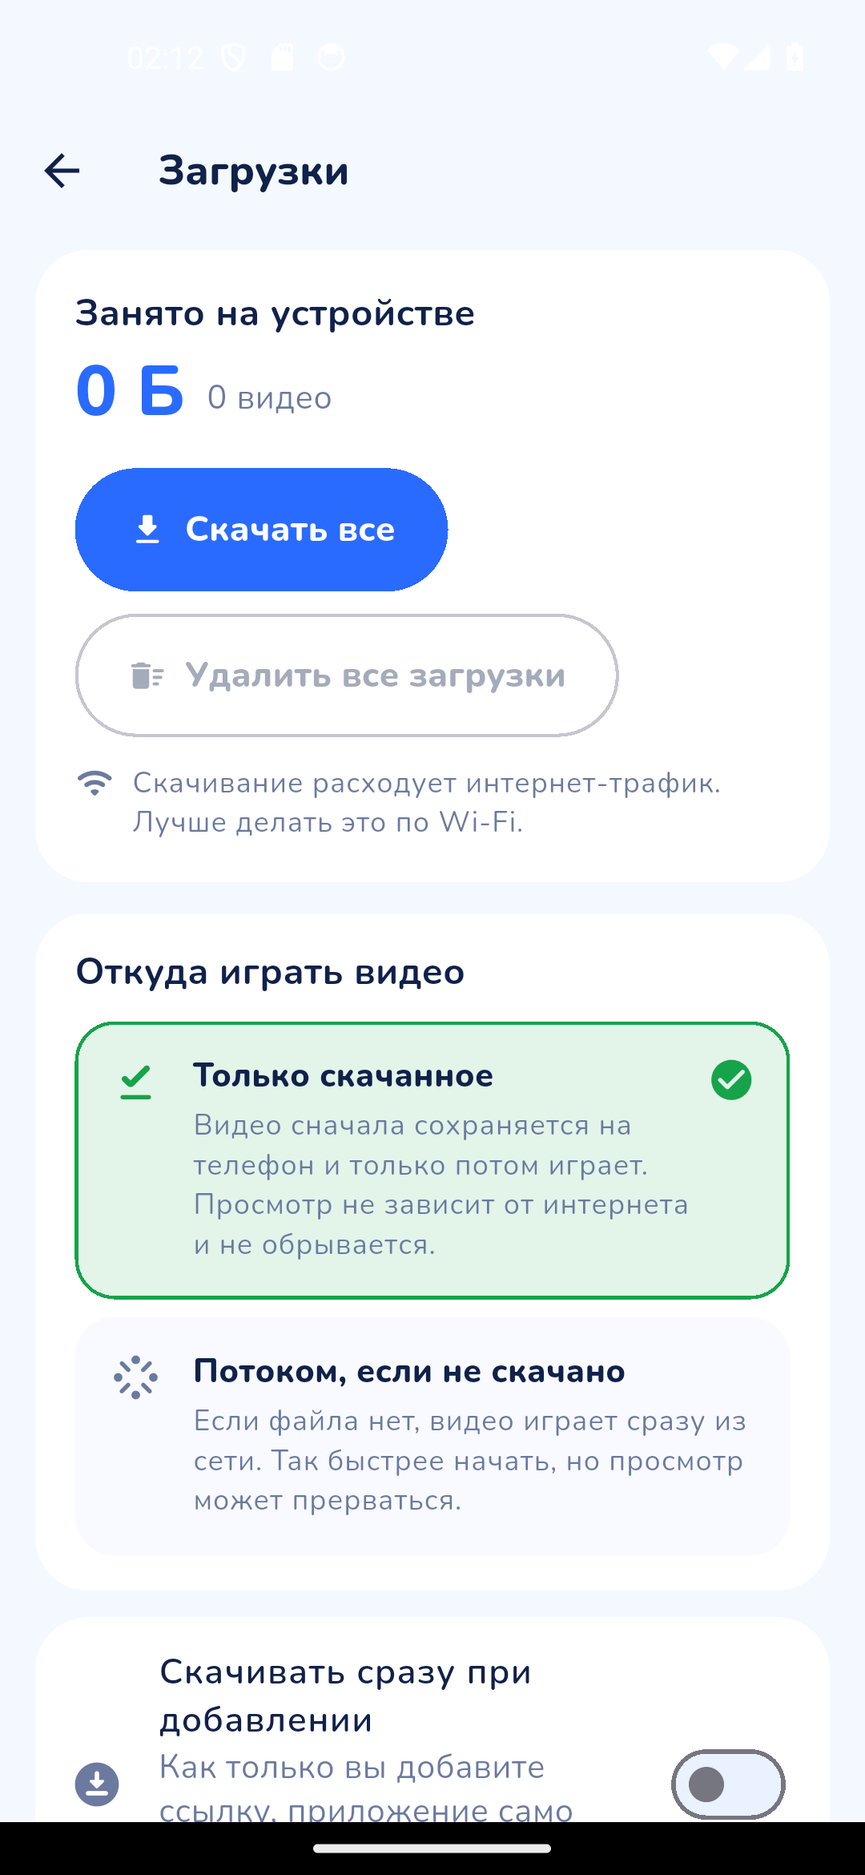
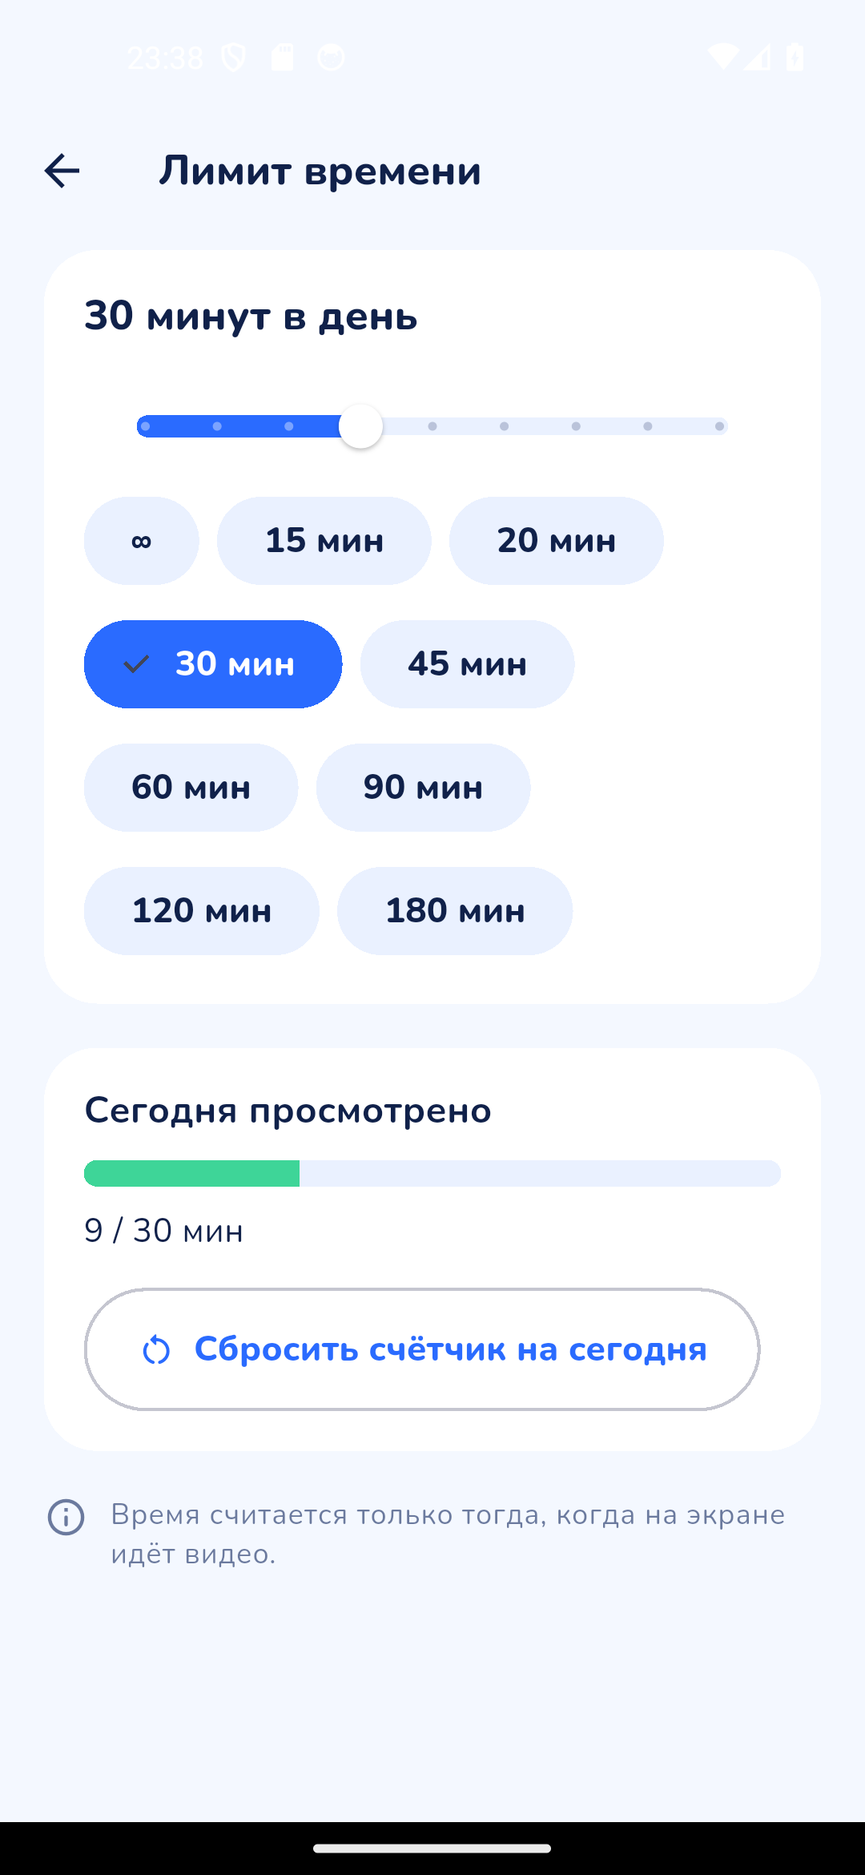
feat: лендинг для сайта и описание новой иконки
Одностраничный лендинг landing/index.html: самодостаточный файл без внешних
библиотек, шрифтов и CDN. Первый экран, возможности, «как это работает»,
галерея кадров, раздел для родителей, вопросы и ответы, кнопки магазинов
и юридическая оговорка про YouTube.

Кадры для галереи сняты с личной сборки — той, где видео скачивается
на телефон: страница рассказывает про офлайн-просмотр, и в папке landing/img
рядом с кадрами лежит инструкция, что снимать именно личную сборку.

В материалах для Google Play обновлено описание иконки: раньше там была
«капля-родник» в сине-фиолетовой гамме, теперь — зелёный знак в форме
иконки YouTube, с объяснением, почему это не копия чужого товарного знака.

diff --git a/landing/index.html b/landing/index.html
@@ -9,7 +9,7 @@
   2. Ссылку на App Store — комментарий «заполнить: ссылка на App Store».
   3. Ссылку на условия использования — комментарий «заполнить: ссылка на условия использования».
   4. Загрузить файл img/og.png (1200×630) — комментарий «заполнить: og:image».
-  5. Положить скриншоты img/phone-1.png … img/phone-6.png (1080×1920).
+  5. Положить скриншоты img/phone-1.png … img/phone-6.png (1080×2340).
 
   Заметка о цветах: лендинг сделан в зелёной палитре (по ТЗ). В самом приложении
   палитра другая — сине-фиолетовая (lib/core/theme/app_colors.dart). Если решите
@@ -487,7 +487,7 @@ ul{margin:0;padding:0;list-style:none}
       <div class="hero__phone">
         <div class="phone">
           <div class="phone__screen">
-            <img src="img/phone-1.png" alt="Главный экран приложения Булак: коллекции и крупные карточки с видео" width="1080" height="1920" decoding="async">
+            <img src="img/phone-1.png" alt="Главный экран приложения Булак: коллекции и крупные карточки с видео" width="1080" height="2340" decoding="async">
           </div>
         </div>
       </div>
@@ -647,7 +647,7 @@ ul{margin:0;padding:0;list-style:none}
         <figure>
           <div class="phone phone--sm">
             <div class="phone__screen">
-              <img src="img/phone-1.png" alt="Главный экран: коллекции и библиотека крупными карточками" width="1080" height="1920" loading="lazy" decoding="async">
+              <img src="img/phone-1.png" alt="Главный экран: коллекции и библиотека крупными карточками" width="1080" height="2340" loading="lazy" decoding="async">
             </div>
           </div>
           <figcaption>Главная<span>Коллекции и вся библиотека</span></figcaption>
@@ -655,7 +655,7 @@ ul{margin:0;padding:0;list-style:none}
         <figure>
           <div class="phone phone--sm">
             <div class="phone__screen">
-              <img src="img/phone-2.png" alt="Коллекция с эмодзи и цветом: папка с видео" width="1080" height="1920" loading="lazy" decoding="async">
+              <img src="img/phone-2.png" alt="Коллекция с эмодзи и цветом: папка с видео" width="1080" height="2340" loading="lazy" decoding="async">
             </div>
           </div>
           <figcaption>Коллекция<span>Папки с эмодзи и цветом</span></figcaption>
@@ -663,7 +663,7 @@ ul{margin:0;padding:0;list-style:none}
         <figure>
           <div class="phone phone--sm">
             <div class="phone__screen">
-              <img src="img/phone-3.png" alt="Плеер: крупные кнопки и замочек для ребёнка" width="1080" height="1920" loading="lazy" decoding="async">
+              <img src="img/phone-3.png" alt="Плеер: полоса просмотра и три крупные кнопки — во весь экран, замочек и следующее видео" width="1080" height="2340" loading="lazy" decoding="async">
             </div>
           </div>
           <figcaption>Плеер<span>Крупные кнопки и замочек</span></figcaption>
@@ -671,7 +671,7 @@ ul{margin:0;padding:0;list-style:none}
         <figure>
           <div class="phone phone--sm">
             <div class="phone__screen">
-              <img src="img/phone-4.png" alt="Экран «На сегодня всё» после окончания дневного лимита" width="1080" height="1920" loading="lazy" decoding="async">
+              <img src="img/phone-4.png" alt="Экран «На сегодня всё» после окончания дневного лимита" width="1080" height="2340" loading="lazy" decoding="async">
             </div>
           </div>
           <figcaption>Лимит времени<span>Добрый экран «На сегодня всё»</span></figcaption>
@@ -679,7 +679,7 @@ ul{margin:0;padding:0;list-style:none}
         <figure>
           <div class="phone phone--sm">
             <div class="phone__screen">
-              <img src="img/phone-5.png" alt="Экран загрузок: сколько места занимают скачанные видео" width="1080" height="1920" loading="lazy" decoding="async">
+              <img src="img/phone-5.png" alt="Экран загрузок: сколько места занято на телефоне и выбор источника воспроизведения" width="1080" height="2340" loading="lazy" decoding="async">
             </div>
           </div>
           <figcaption>Загрузки<span>Видно, сколько занято на телефоне</span></figcaption>
@@ -687,7 +687,7 @@ ul{margin:0;padding:0;list-style:none}
         <figure>
           <div class="phone phone--sm">
             <div class="phone__screen">
-              <img src="img/phone-6.png" alt="Родительский раздел: добавление ссылок и PIN-код" width="1080" height="1920" loading="lazy" decoding="async">
+              <img src="img/phone-6.png" alt="Родительский раздел: добавление видео, библиотека, загрузки и PIN-код" width="1080" height="2340" loading="lazy" decoding="async">
             </div>
           </div>
           <figcaption>Для родителя<span>Ссылки, PIN-код, настройки</span></figcaption>

diff --git a/landing/img/README.md b/landing/img/README.md
@@ -26,18 +26,21 @@
 | `phone-2.png` | Галерея, «Коллекция» | Открытая коллекция-папка с эмодзи и цветным заголовком, внутри — карточки видео |
 | `phone-3.png` | Галерея, «Плеер» | Плеер во весь экран: крупные кнопки «назад 10 с», «играть/пауза», «вперёд 10 с» и видимый «замочек» |
 | `phone-4.png` | Галерея, «Лимит времени» | Экран «На сегодня всё» после окончания дневного лимита |
-| `phone-5.png` | Галерея, «Загрузки» | Экран загрузок: список скачанных видео и сколько места занято на телефоне |
-| `phone-6.png` | Галерея, «Для родителя» | Родительский раздел: добавление ссылок и/или ввод PIN-кода |
+| `phone-5.png` | Галерея, «Загрузки» | Экран загрузок: сколько места занято и выбор «Только скачанное» / «Потоком, если не скачано» |
+| `phone-6.png` | Галерея, «Для родителя» | Родительский раздел: «Добавить видео», библиотека, загрузки, PIN-код |
 | `og.png` | Превью ссылки в соцсетях (`og:image`, `twitter:image`) | Логотип «Булак» и один-два экрана приложения, 1200 × 630, без мелкого текста |
+
+**Файлы уже лежат в папке** — это кадры из приложения, снятые на Android 1080 × 2340. Всё, что ниже, — инструкция на случай, если понадобится переснять.
 
 ## Рекомендации по файлам
 
-- **Размер:** 1080 × 1920 (вертикальный, 9:16) — стандарт для Google Play. Другие вертикальные пропорции тоже подойдут: картинка обрезается по `object-fit: cover` с выравниванием по верху, поэтому важное не должно быть у самого низа кадра.
-- **Вес:** до ~400 КБ на файл, формат PNG или JPG (jpeg-качество 85–90 достаточно). Итого страница не должна тяжелеть больше, чем на ~2–3 МБ.
+- **Размер:** 1080 × 2340 (вертикальный, 9:19.5 — как у типичного Android-телефона). Именно это соотношение у рамки телефона на странице, поэтому такой кадр встаёт без обрезки. Другие вертикальные пропорции тоже подойдут: картинка обрезается по `object-fit: cover` с выравниванием по верху, поэтому важное не должно быть у самого низа кадра.
+- **Вес:** до ~400 КБ на файл, формат PNG или JPG (jpeg-качество 85–90 достаточно). Сейчас вся папка — около 1,4 МБ.
 - **Что убрать со скриншота:** системные полосы Android (статус-бар и полосу навигации) — приложение и так рисуется внутри «рамки телефона» на странице. Уведомления, имена Wi-Fi, заряд батареи, курсор мыши не нужны.
-- **Изображение обрезается по краям:** сверху и снизу контейнер чуть подрезает кадр, поэтому не размещайте важные кнопки вплотную к верхней и нижней кромке.
-- **Тексты:** кадры лучше делать на русской локали приложения — лендинг русскоязычный.
+- **Тексты:** кадры сделаны на русской локали — лендинг русскоязычный.
 - **`alt` уже написан** в `index.html` под каждый кадр. Если меняете содержимое кадра — поправьте и `alt`, чтобы он описывал то, что реально видно.
+
+> **Важно про сборку.** Кадры сняты с **личной** сборки приложения — той, где видео скачивается на телефон. Экраны «Готовим видео» и «Загрузки» в сборке для Google Play и App Store отсутствуют: там скачивание отключено и видео играет потоком. Если будете переснимать, снимайте личную сборку — иначе страница расскажет про офлайн-режим, которого в магазинной версии нет.
 
 ## Пока картинок нет
 

diff --git a/docs/store/google-play/store-assets.md b/docs/store/google-play/store-assets.md
@@ -44,16 +44,22 @@
 | Формат | 32-битный PNG |
 | Альфа-канал | **Запрещён** (иконка должна быть непрозрачной) |
 | Обязательные отступы | 24 px безопасной зоны со всех сторон |
-| Ограничение | Логотип YouTube и любые чужие товарные знаки использовать нельзя |
+| Ограничение | Чужой товарный знак использовать нельзя: копировать логотип YouTube целиком (красный прямоугольник + белый треугольник) запрещено. Наш знак использует другую форму и цвет — см. ниже |
 
 ### Что изображено
 
-Иконка **уже нарисована и лежит в репозитории**. Это знак «капля-родник с кнопкой воспроизведения»: белая капля с плавным круглым низом и остриём вверх, внутри — скруглённый треугольник воспроизведения глубокого синего цвета, всё на фирменном градиенте «небо → синий → фиолет».
+Иконка **уже нарисована и лежит в репозитории**. Это знак в форме иконки YouTube: зелёный квадрат со скруглением около 24 % стороны и белый скруглённый треугольник воспроизведения по центру. Палитра — фирменный зелёный градиент `#4ADE80` → `#22C55E` → `#16A34A`.
+
+Почему форма именно такая и почему это допустимо:
+
+- скруглённый квадрат с треугольником — распространённая и неохраняемая идея плеера; охраняется конкретное сочетание **красного** прямоугольника и белого треугольника как товарный знак YouTube. Мы не используем ни красный цвет, ни пропорции, ни начертание их логотипа, а собственный зелёный знак;
+- в названии приложения и в описании нет слова YouTube (см. раздел про товарные знаки в листинге);
+- зелёный выбран осознанно: для детского приложения он спокойнее красного, а на полке иконок «Булак» мгновенно отличается от YouTube и при этом читается как видеоплеер.
 
 - Готовый файл для Play: `fastlane/metadata/android/ru-RU/images/icon/icon.png` (512 × 512, RGB без альфа-канала).
 - Исходник и вся остальная графика: `assets/icon/`.
-- Знак не содержит текста, не повторяет логотип YouTube и не использует чужих товарных знаков.
-- Композиция проверена на читаемость в 48 px: тонкие детали отсутствуют, контраст между белой каплей и градиентом максимальный.
+- Внутри приложения тот же знак рисуется векторно (`lib/ui/widgets/brand_mark.dart`), поэтому он резкий на любом экране и совпадает с иконкой на домашнем экране.
+- Композиция проверена на читаемость в 48 px: треугольник занимает около трети ширины, тонких деталей нет, контраст белого и зелёного максимальный.
 
 **Как иконка рисуется.** Знак описан формулами в `tools/icon/build_assets.py` (Pillow + numpy) и разворачивается сразу во все нужные размеры:
 
